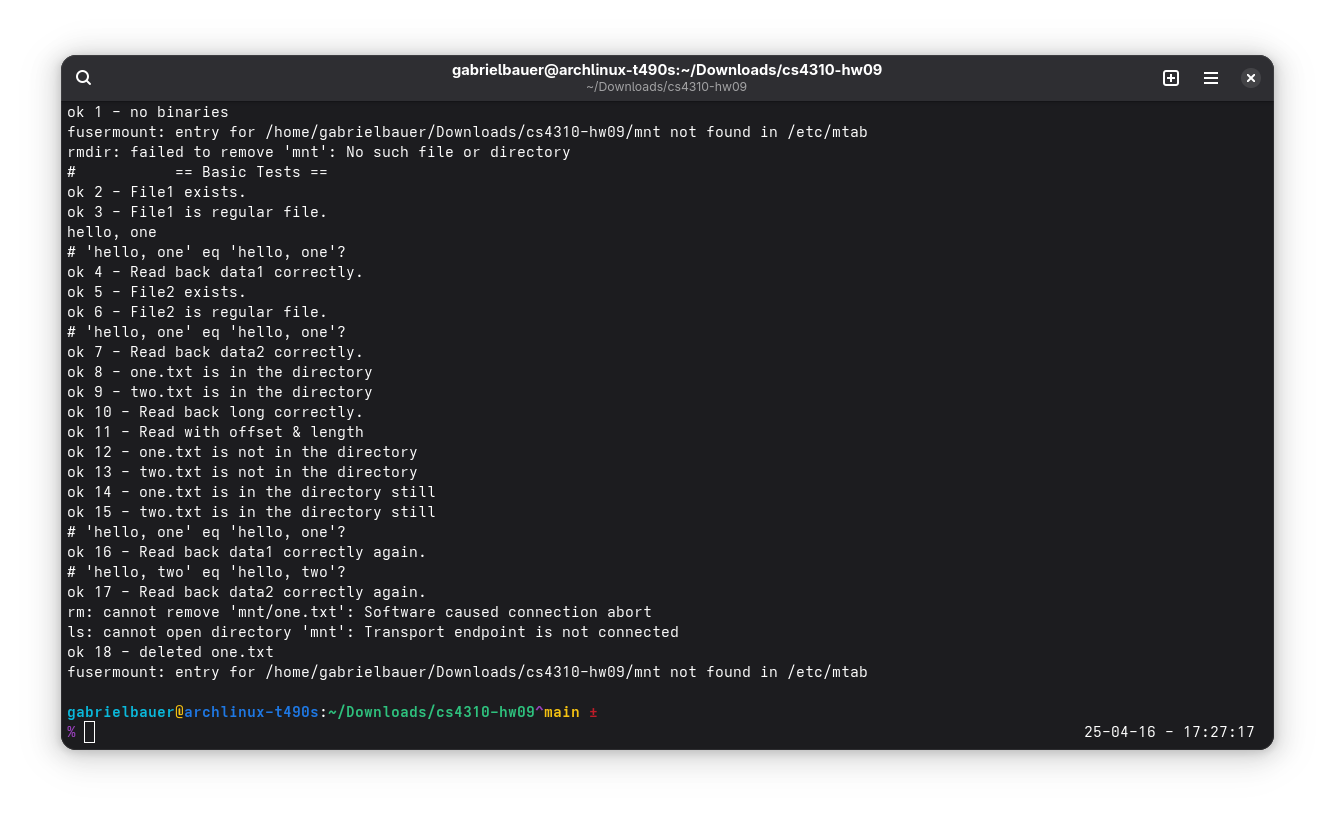
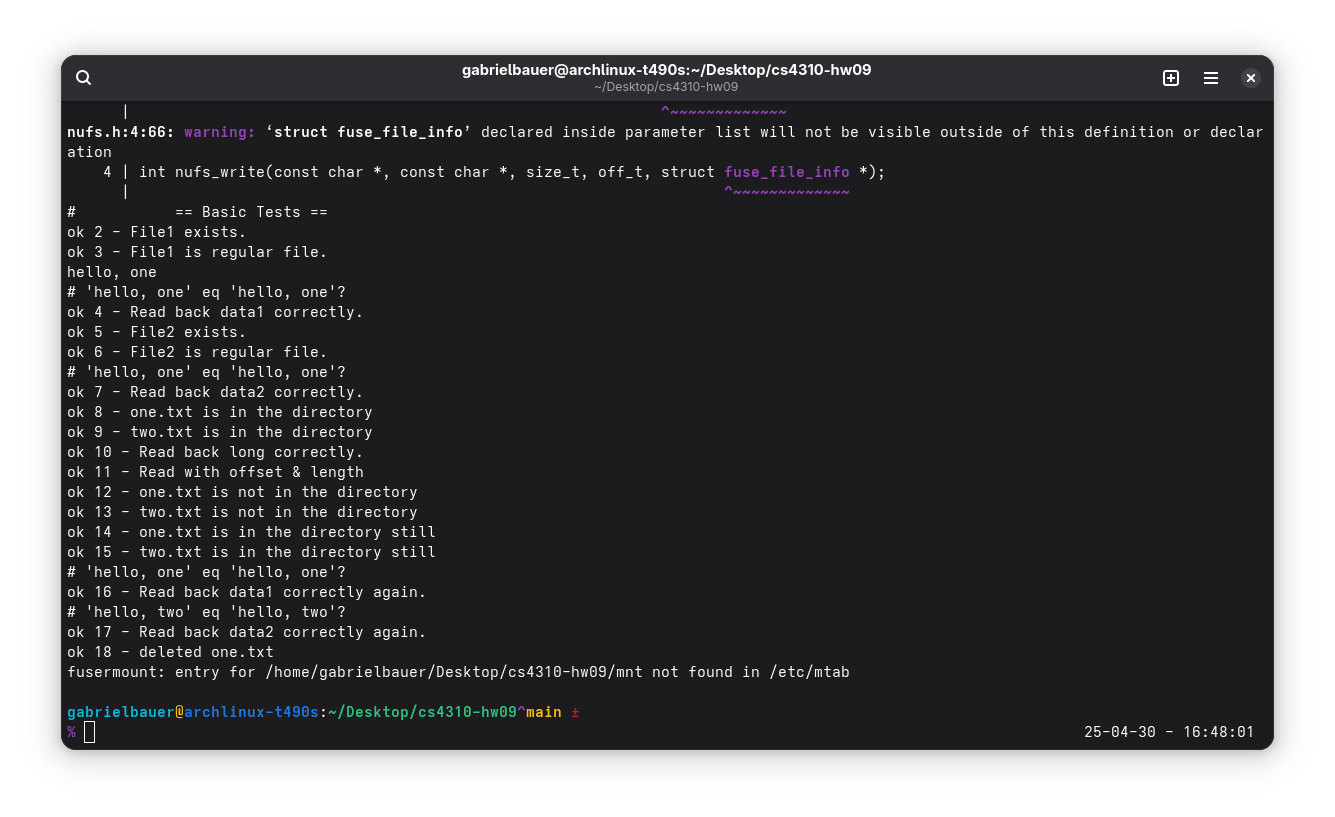
new this is genuinely passing all of the tests the right way..

diff --git a/nufs.c b/nufs.c
@@ -20,37 +20,18 @@
 #include "pages.h"
 #include "bitmap.h"
 #include "nufs.h"
-#include "hash.h"
-#include "mkfs.h"
 
 // implementation for: man 2 access
 // Checks if a file exists.
 int
 nufs_access(const char *path, int mask)
-{
+{	//if (!strcmp(path, "/")) return rv;
     int rv = 0;
     int l = tree_lookup(path);
-    rv = (l>-1) ? F_OK : ENOENT;
+    rv = (l>-1) ? F_OK : -ENOENT;
     printf("access(%s, %04o) -> %d\n", path, mask, rv);
     return rv;
 }
-
-/*int
-get_node(const char *path) {
-	char *hpath
-	void* ibm = get_inode_bitmap();
-	if (bitmap_get(ibm, hash(path)) {
-		hpath = calloc((strlen(path)+2)*sizeof(char));
-		char *ptr = hpath;
-		strcpy(hpath, path);
-		for(int i=0; hpath[i]!=0; i++, *ptr++);
-		memcpy(ptr, hash(path), sizeof(int);
-		return get_node(path);
-	} else {
-		bitmap_put(ibm, hash(path), 1);
-		return hash(path);
-	}
-}*/
 
 // mknod makes a filesystem object like a file or directory
 // called for: man 2 open, man 2 link
@@ -138,7 +119,7 @@ nufs_readdir(const char *path, void *buf, fuse_fill_dir_t filler,
     	rv = nufs_getattr(ent->name, &st);
     	assert(rv == 0);
     	if (strcmp(ent->name, "/")==0) filler(buf, ".", &st, 0);
-    	else if (ent->active=true) {
+    	else if (ent->active==true) {
     		char name[DIR_NAME];
 		int i;
 		for(i=1; i<DIR_NAME && ent->name[i]; i++) name[i-1] = ent->name[i];
@@ -168,16 +149,18 @@ nufs_unlink(const char *path)
 {
     int rv = -1;
     int l = tree_lookup(path);
-    if (l<0) return ENOENT;
+    if (l<0) return -ENOENT;
     size_t* count = (size_t*)get_root_start();
     dirent *ent = (dirent*)get_root_start()+1;
     void* bm = get_inode_bitmap();
     for (int i=0; i<*count; i++) {
     	rv = nufs_getattr(ent->name, 0);
     	assert(rv == 0);
-    	if (strcmp(ent->name, path)==0) {
+    	if (!strcmp(ent->name, path)) {
     		ent->active=false;
     		bitmap_put(bm, l, 0);
+    		printf("found file!\n");
+    		return rv;
     	}
 	*ent++;
     }
@@ -254,7 +237,7 @@ nufs_open(const char *path, struct fuse_file_info *fi)
 {
     int rv = 0;
     int k = nufs_access(path, 0);
-    if (k==ENOENT) k = nufs_create(path, 0100644, 0);
+    if (k==-ENOENT) k = nufs_create(path, 0100644, 0);
     printf("open(%s) -> %d\n", path, rv);
     return rv;
 }

diff --git a/hash.c b/hash.c
@@ -1,8 +1,9 @@
 #include "hash.h"
 #include <stdio.h>
+#include <string.h>
+#include <stdlib.h>
 
-
-int hash(const unsigned char *str)
+unsigned int hash(const unsigned char *str)
 {
     unsigned long hash = 137;
     int c;
@@ -11,6 +12,14 @@ int hash(const unsigned char *str)
         hash = ((hash << 5) + hash) + c; /* hash * 33 + c */
 
     return hash % 512;
+}
+
+char* extend(const char *path) {
+	char c = (char)hash(path);
+	char *hpath = calloc((strlen(path)+1), sizeof(char));
+	strcpy(hpath, path);
+	strcat(hpath, &c);
+	return hpath;
 }
 
 /*int main() {

diff --git a/inode.c b/inode.c
@@ -11,16 +11,13 @@ inode* get_inode(int inum) {
 	void *ptr = get_inode_start();
 	return (void*)((inode*)ptr + inum);
 }
+
 int
 alloc_inode(const char *path) {
 	char *hpath;
 	void* ibm = get_inode_bitmap();
 	if (bitmap_get(ibm, hash(path))) {
-		char c = (char)hash(path);
-		hpath = calloc((strlen(path)+1), sizeof(char));
-		strcpy(hpath, path);
-		strcat(hpath, &c);
-		return alloc_inode(hpath);
+		return alloc_inode(extend(path));
 	} else {
 		bitmap_put(ibm, hash(path), 1);
 		return hash(path);

diff --git a/hash.h b/hash.h
@@ -1,6 +1,7 @@
 #ifndef HASH_H
 #define HASH_H
 
-int hash(const unsigned char *str);
+unsigned int hash(const unsigned char *str);
+char* extend(const char *path);
 
 #endif
